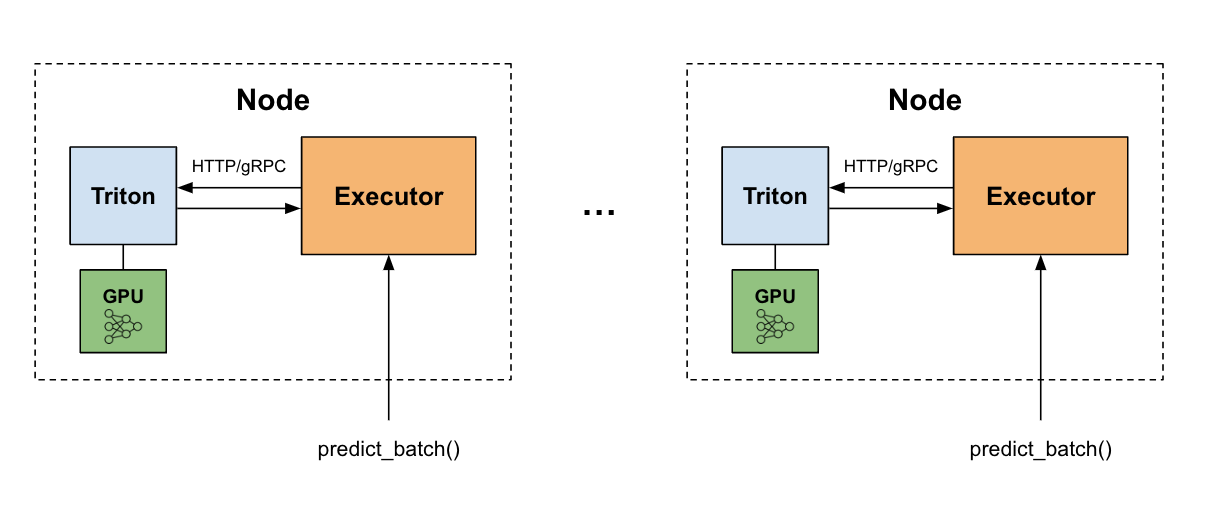
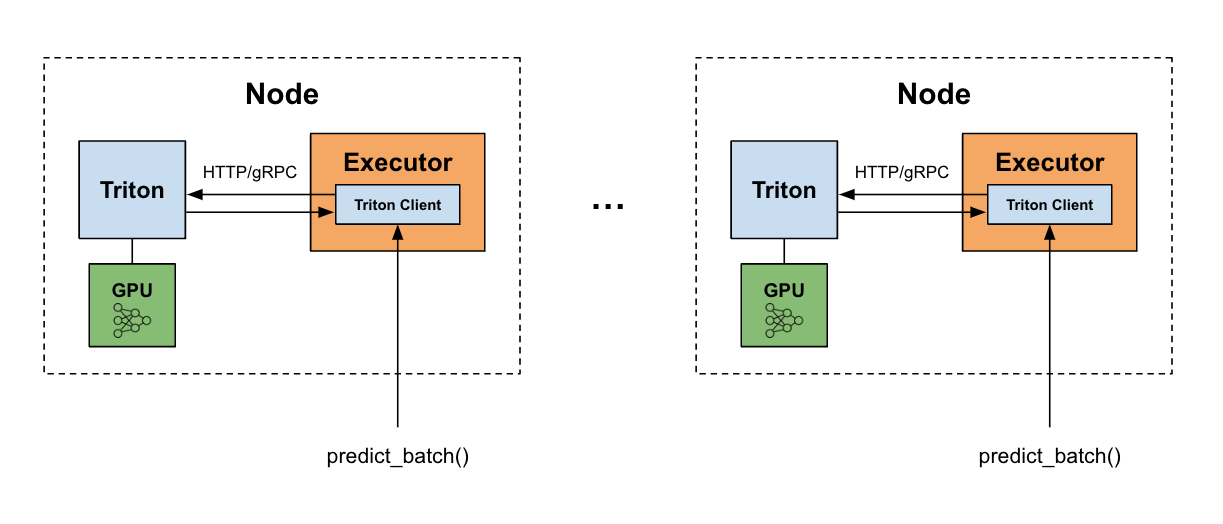
Use dataset streaming, cleanup diagram (#497)
Use streaming to avoid saving entire Huggingface dataset to disk for
large datasets. Updated diagram for clarity regarding client/server
interaction.

---------

diff --git a/examples/ML+DL-Examples/Spark-DL/dl_inference/README.md b/examples/ML+DL-Examples/Spark-DL/dl_inference/README.md
@@ -39,22 +39,22 @@ In this simple case, the `predict_batch_fn` will use TensorFlow APIs to load the
 
 #### Notebook List
 
-Below is a full list of the notebooks with links to the examples they are based on. All notebooks have been saved with sample outputs for quick browsing.  
+Below is a full list of the notebooks and their links. All notebooks have been saved with sample outputs for quick browsing.  
 
 |   | Framework  | Notebook Name | Description | Link
 | ------------- | ------------- | ------------- | ------------- | ------------- 
-| 1 | HuggingFace | DeepSeek-R1 | LLM batch inference using the DeepSeek-R1-Distill-Llama reasoning model to solve word problems. | [Link](https://huggingface.co/deepseek-ai/DeepSeek-R1)
-| 2 | HuggingFace | Qwen-2.5-7b | LLM batch inference using the Qwen-2.5-7b model for text summarization. | [Link](https://huggingface.co/Qwen/Qwen2.5-7B-Instruct)
-| 3 | HuggingFace | Gemma-7b | LLM batch inference using the Google Gemma-7b model for code comprehension tasks. | [Link](https://huggingface.co/google/gemma-7b-it)
-| 4 | HuggingFace | Sentence Transformers | Sentence embeddings using SentenceTransformers in Torch. | [Link](https://huggingface.co/sentence-transformers)
-| 5+6 | HuggingFace | Conditional Generation | Sentence translation using the T5 text-to-text transformer (Torch and Tensorflow). | [Link](https://huggingface.co/docs/transformers/model_doc/t5#t5) 
-| 7+8 | HuggingFace | Pipelines | Sentiment analysis using Huggingface pipelines (Torch and Tensorflow). | [Link](https://huggingface.co/docs/transformers/quicktour#pipeline-usage)
-| 9 | PyTorch | Image Classification | Training a model to predict clothing categories in FashionMNIST, and deploying with Torch-TensorRT accelerated inference. | [Link](https://pytorch.org/tutorials/beginner/basics/quickstart_tutorial.html)
-| 10 | PyTorch | Housing Regression | Training and deploying a model to predict housing prices in the California Housing Dataset, and deploying with Torch-TensorRT accelerated inference. | [Link](https://github.com/christianversloot/machine-learning-articles/blob/main/how-to-create-a-neural-network-for-regression-with-pytorch.md)
-| 11 | Tensorflow | Image Classification | Training and deploying a model to predict hand-written digits in MNIST. | [Link](https://github.com/tensorflow/docs/blob/master/site/en/tutorials/keras/save_and_load.ipynb)
-| 12 | Tensorflow | Keras Preprocessing | Training and deploying a model with preprocessing layers to predict likelihood of pet adoption in the PetFinder mini dataset. | [Link](https://github.com/tensorflow/docs/blob/master/site/en/tutorials/structured_data/preprocessing_layers.ipynb)
-| 13 | Tensorflow | Keras Resnet50 | Deploying ResNet-50 to perform flower recognition from flower images. | [Link](https://docs.databricks.com/en/_extras/notebooks/source/deep-learning/keras-metadata.html)
-| 14 | Tensorflow | Text Classification | Training and deploying a model to perform sentiment analysis on the IMDB dataset. | [Link](https://github.com/tensorflow/docs/blob/master/site/en/tutorials/keras/text_classification.ipynb)
+| 1 | HuggingFace | DeepSeek-R1 | LLM batch inference using the DeepSeek-R1-Distill-Llama reasoning model to solve word problems. | [Link](huggingface/deepseek-r1_torch.ipynb)
+| 2 | HuggingFace | Qwen-2.5-7b | LLM batch inference using the Qwen-2.5-7b model for text summarization. | [Link](huggingface/qwen-2.5-7b_torch.ipynb)
+| 3 | HuggingFace | Gemma-7b | LLM batch inference using the Google Gemma-7b model for code comprehension tasks. | [Link](huggingface/gemma-7b_torch.ipynb)
+| 4 | HuggingFace | Sentence Transformers | Sentence embeddings using SentenceTransformers in Torch. | [Link](huggingface/sentence_transformers_torch.ipynb)
+| 5+6 | HuggingFace | Conditional Generation | Sentence translation using the T5 text-to-text transformer (Torch and Tensorflow). | [Torch Link](huggingface/conditional_generation_torch.ipynb), [TF Link](huggingface/conditional_generation_tf.ipynb)
+| 7+8 | HuggingFace | Pipelines | Sentiment analysis using Huggingface pipelines (Torch and Tensorflow). | [Torch Link](huggingface/pipelines_torch.ipynb), [TF Link](huggingface/pipelines_tf.ipynb)
+| 9 | PyTorch | Image Classification | Training a model to predict clothing categories in FashionMNIST, and deploying with Torch-TensorRT accelerated inference. | [Link](pytorch/image_classification_torch.ipynb)
+| 10 | PyTorch | Housing Regression | Training and deploying a model to predict housing prices in the California Housing Dataset, and deploying with Torch-TensorRT accelerated inference. | [Link](pytorch/housing_regression_torch.ipynb)
+| 11 | Tensorflow | Image Classification | Training and deploying a model to predict hand-written digits in MNIST. | [Link](tensorflow/image_classification_tf.ipynb)
+| 12 | Tensorflow | Keras Preprocessing | Training and deploying a model with preprocessing layers to predict likelihood of pet adoption in the PetFinder mini dataset. | [Link](tensorflow/keras_preprocessing_tf.ipynb)
+| 13 | Tensorflow | Keras Resnet50 | Deploying ResNet-50 to perform flower recognition from flower images. | [Link](tensorflow/keras_resnet50_tf.ipynb)
+| 14 | Tensorflow | Text Classification | Training and deploying a model to perform sentiment analysis on the IMDB dataset. | [Link](tensorflow/text_classification_tf.ipynb)
 
 
 ## Running Locally
